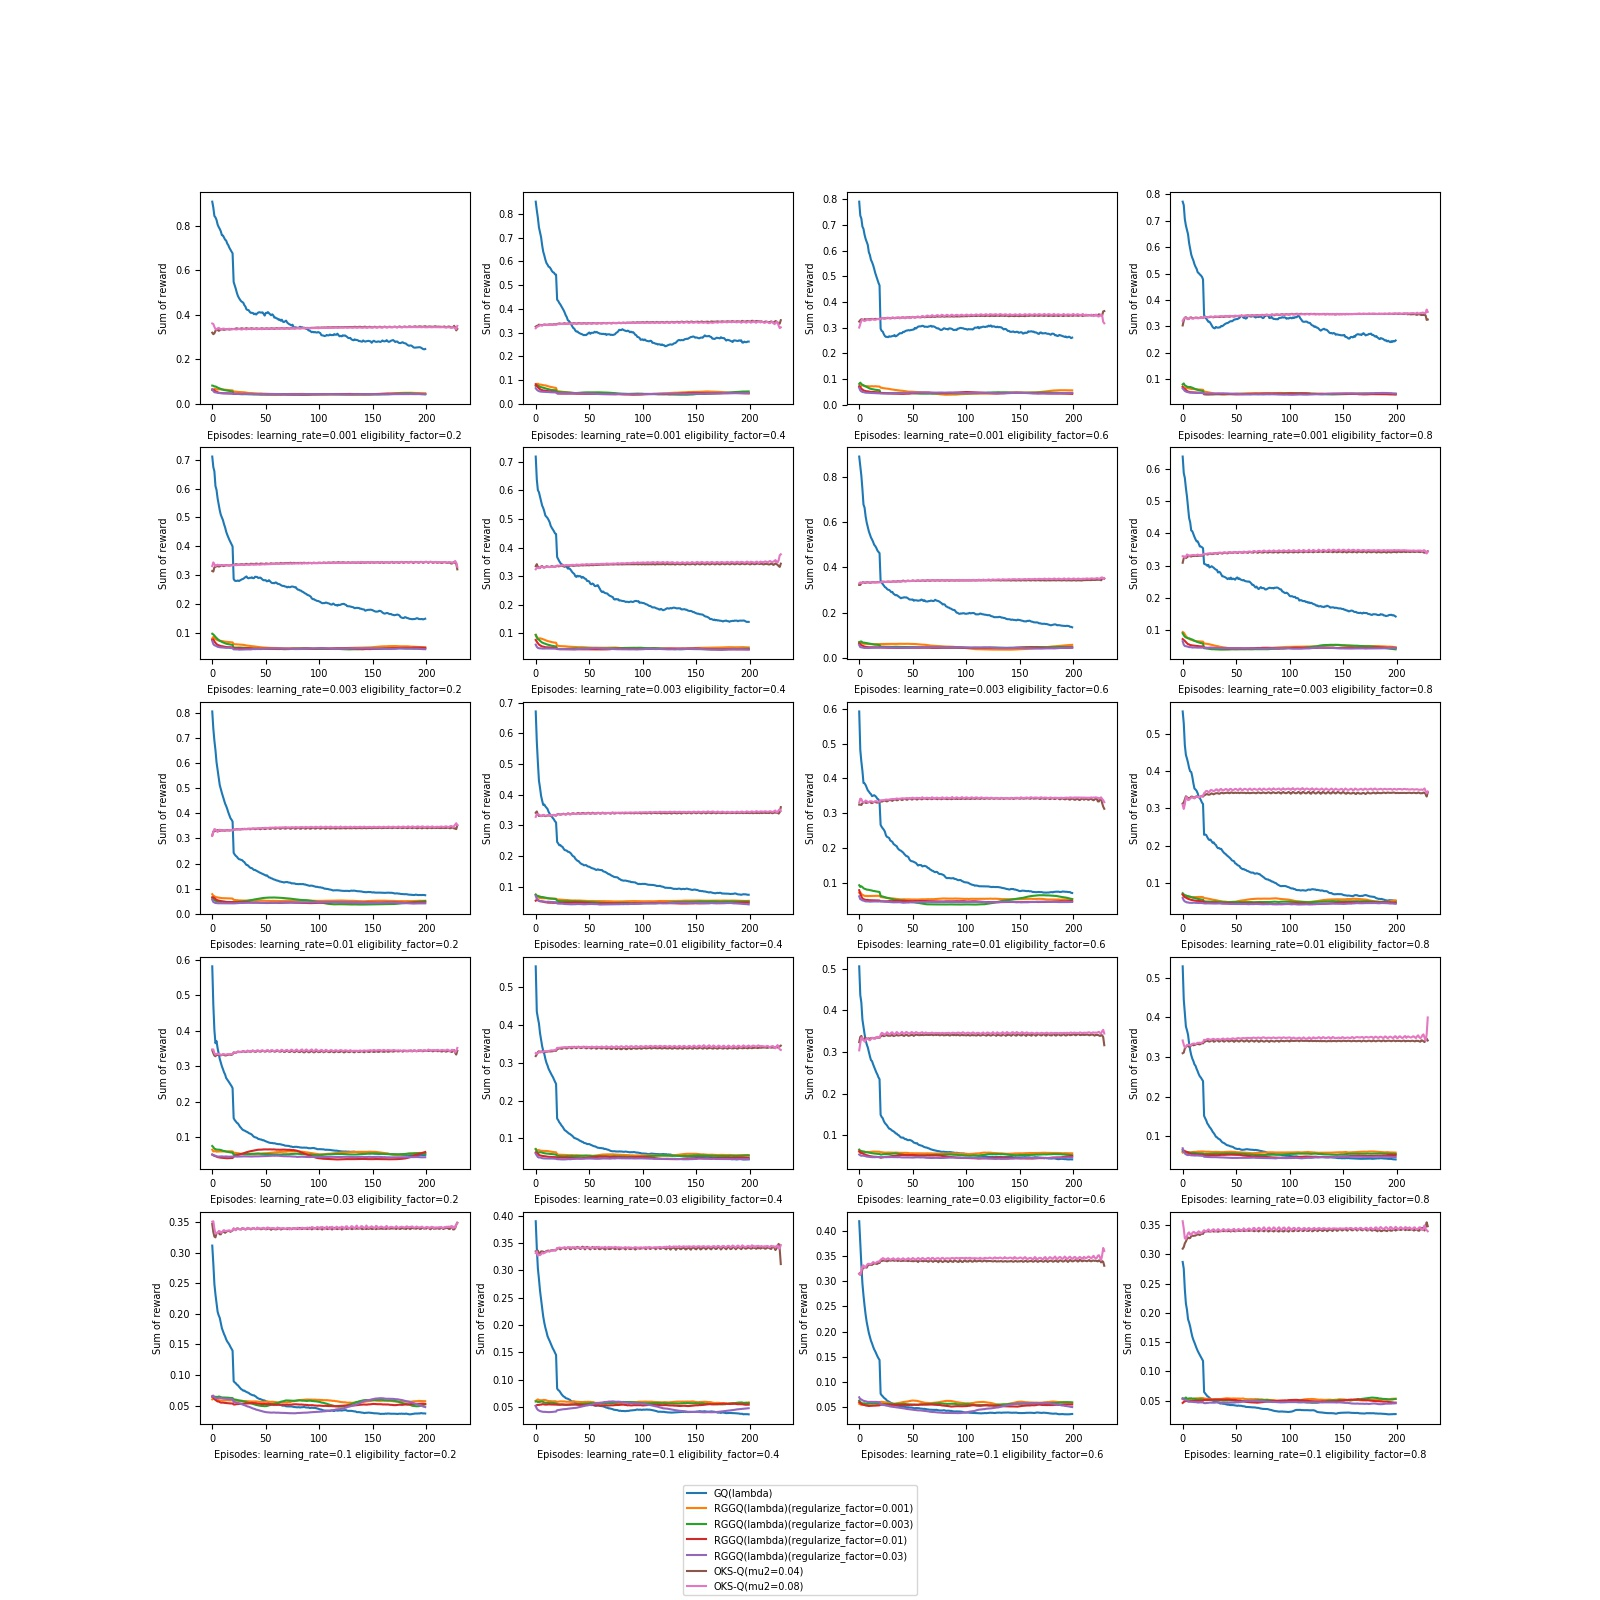
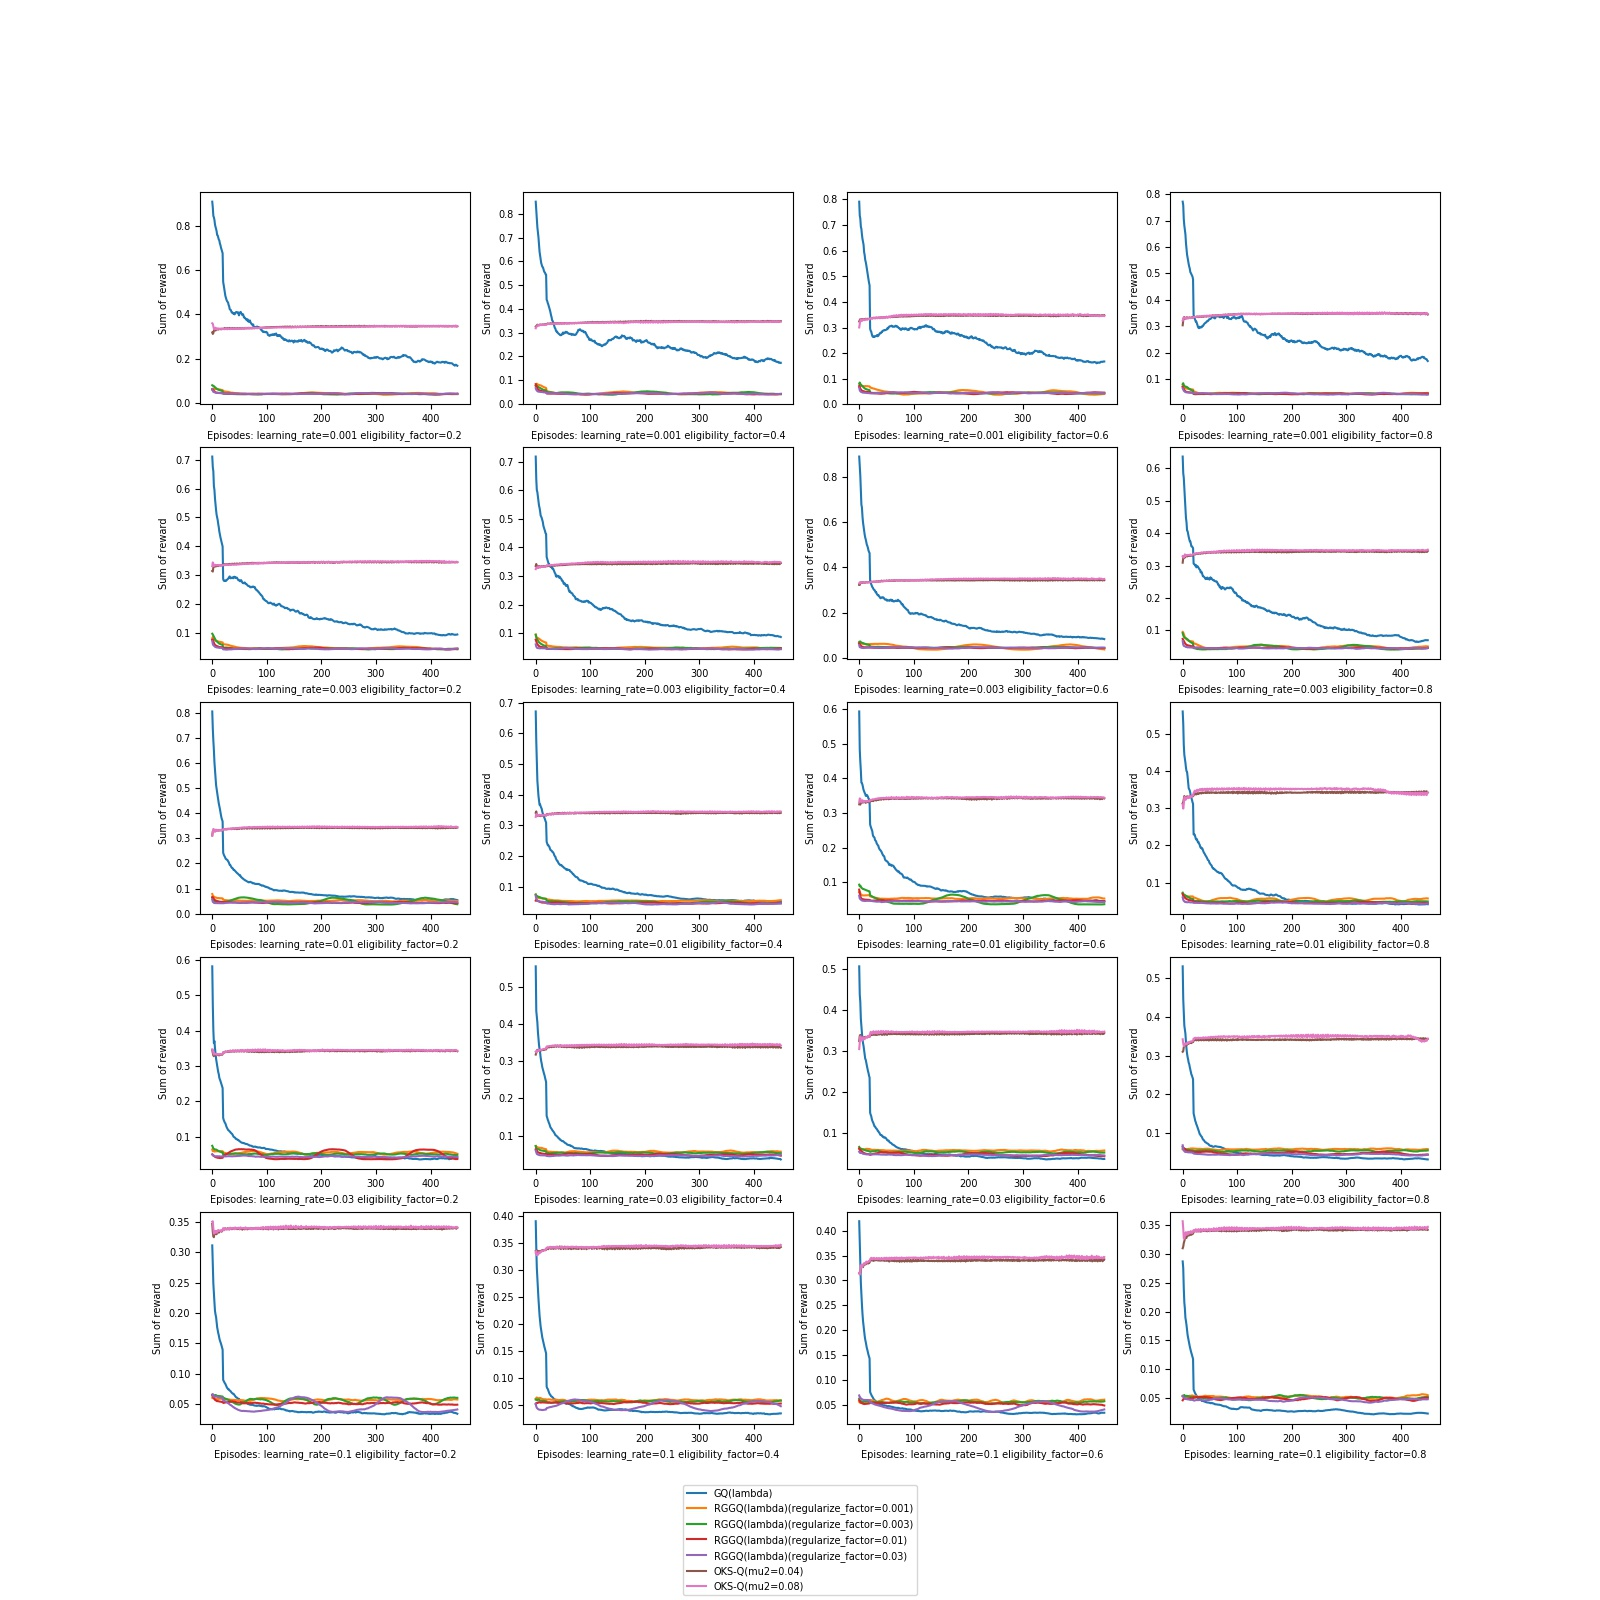
algorithm modify

diff --git a/Project/data/MountainCar/data_analysis.py b/Project/data/MountainCar/data_analysis.py
@@ -16,11 +16,11 @@ def save_img(data):
             ax.set_xlabel("Episodes: learning_rate=" + str(learning_rate) + " eligibility_factor=" + str(eligibility_factor))
             ax.set_ylabel('Sum of reward')
 
-            line_1, = plt.plot(data["total_reward"]["GGQ"][learning_rate][eligibility_factor][:200])
-            line_2, = plt.plot(data["total_reward"]["RGGQ"][learning_rate][eligibility_factor][0.001][:200])
-            line_3, = plt.plot(data["total_reward"]["RGGQ"][learning_rate][eligibility_factor][0.003][:200])
-            line_4, = plt.plot(data["total_reward"]["RGGQ"][learning_rate][eligibility_factor][0.01][:200])
-            line_5, = plt.plot(data["total_reward"]["RGGQ"][learning_rate][eligibility_factor][0.03][:200])
+            line_1, = plt.plot(data["total_reward"]["GGQ"][learning_rate][eligibility_factor][:450])
+            line_2, = plt.plot(data["total_reward"]["RGGQ"][learning_rate][eligibility_factor][0.001][:450])
+            line_3, = plt.plot(data["total_reward"]["RGGQ"][learning_rate][eligibility_factor][0.003][:450])
+            line_4, = plt.plot(data["total_reward"]["RGGQ"][learning_rate][eligibility_factor][0.01][:450])
+            line_5, = plt.plot(data["total_reward"]["RGGQ"][learning_rate][eligibility_factor][0.03][:450])
             # line_6, = plt.plot(data["total_reward"]["OSKQ"][learning_rate][eligibility_factor][0.04])
             # line_7, = plt.plot(data["total_reward"]["OSKQ"][learning_rate][eligibility_factor][0.08])
     fig.legend(
@@ -50,13 +50,13 @@ def save_img(data):
             ax.set_xlabel("Episodes: learning_rate=" + str(learning_rate) + " eligibility_factor=" + str(eligibility_factor))
             ax.set_ylabel('Sum of reward')
 
-            line_1, = plt.plot(data["time_history"]["GGQ"][learning_rate][eligibility_factor][:200])
-            line_2, = plt.plot(data["time_history"]["RGGQ"][learning_rate][eligibility_factor][0.001][:200])
-            line_3, = plt.plot(data["time_history"]["RGGQ"][learning_rate][eligibility_factor][0.003][:200])
-            line_4, = plt.plot(data["time_history"]["RGGQ"][learning_rate][eligibility_factor][0.01][:200])
-            line_5, = plt.plot(data["time_history"]["RGGQ"][learning_rate][eligibility_factor][0.03][:200])
-            line_6, = plt.plot(data["time_history"]["OSKQ"][learning_rate][eligibility_factor][0.04])
-            line_7, = plt.plot(data["time_history"]["OSKQ"][learning_rate][eligibility_factor][0.08])
+            line_1, = plt.plot(data["time_history"]["GGQ"][learning_rate][eligibility_factor][:450])
+            line_2, = plt.plot(data["time_history"]["RGGQ"][learning_rate][eligibility_factor][0.001][:450])
+            line_3, = plt.plot(data["time_history"]["RGGQ"][learning_rate][eligibility_factor][0.003][:450])
+            line_4, = plt.plot(data["time_history"]["RGGQ"][learning_rate][eligibility_factor][0.01][:450])
+            line_5, = plt.plot(data["time_history"]["RGGQ"][learning_rate][eligibility_factor][0.03][:450])
+            line_6, = plt.plot(data["time_history"]["OSKQ"][learning_rate][eligibility_factor][0.04][:450])
+            line_7, = plt.plot(data["time_history"]["OSKQ"][learning_rate][eligibility_factor][0.08][:450])
 
     fig.legend(
         (line_1, line_2, line_3, line_4, line_5, line_6, line_7),
@@ -98,7 +98,7 @@ def main():
                                     data_type + "_" + algo + "-" + str(learning_rate) + "-" + str(eligibility_factor) + "-" + str(mu_2),
                                     'rb'
                             ) as f:
-                                data[data_type][algo][learning_rate][eligibility_factor][mu_2] = pickle.load(f)[:230]
+                                data[data_type][algo][learning_rate][eligibility_factor][mu_2] = pickle.load(f)
 
                     if "RGGQ" == algo:
                         for regularize_factor in [0.001, 0.003, 0.01, 0.03]:
@@ -106,15 +106,16 @@ def main():
                                     data_type + "_" + algo + "-" + str(learning_rate) + "-" + str(eligibility_factor) + "-" + str(regularize_factor),
                                     'rb'
                             ) as f:
-                                data[data_type][algo][learning_rate][eligibility_factor][regularize_factor] = pickle.load(f)[:230]
+                                data[data_type][algo][learning_rate][eligibility_factor][regularize_factor] = pickle.load(f)
 
                     if "GGQ" == algo:
                         with open(
                                 data_type + "_" + algo + "-" + str(learning_rate) + "-" + str(eligibility_factor),
                                 'rb'
                         ) as f:
-                            data[data_type][algo][learning_rate][eligibility_factor] = pickle.load(f)[:230]
-
+                            data[data_type][algo][learning_rate][eligibility_factor] = pickle.load(f)
+    import pdb
+    pdb.set_trace()
     data = data_average(data, ave_step=20)
     save_img(data)
 

diff --git a/Project/MountainCar_MultiProcess copy.py b/Project/MountainCar_MultiProcess copy.py
@@ -34,7 +34,7 @@ def GGQLambda_MultiProcess_Ave(mu_2=0.08,
     precise = [8, 8]
 
     discount_factor = 0.9
-    discount_of_learning_rate = 1
+    discount_of_learning_rate = 0.999
     epsilon = 0.1
 
     # Macro
@@ -57,7 +57,6 @@ def GGQLambda_MultiProcess_Ave(mu_2=0.08,
         MountainCar_universal_action_space
     )
 
-    # Run algorithm
     for ave_times in range(AVE_TIMES):
         learning_agent_GGQLambda = GGQLambda(
             learning_rate,
@@ -68,7 +67,7 @@ def GGQLambda_MultiProcess_Ave(mu_2=0.08,
             state_action_space.action_space
         )
         learning_agent = learning_agent_GGQLambda
-
+        # Run algorithm
         Qfunc_error_history = []
         total_reward_episode = []
         time_history = []
@@ -207,7 +206,7 @@ def RGGQLambda_MultiProcess_Ave(mu_2=0.08,
     precise = [8, 8]
 
     discount_factor = 0.9
-    discount_of_learning_rate = 1
+    discount_of_learning_rate = 0.999
     epsilon = 0.1
 
     # Macro
@@ -300,7 +299,7 @@ def RGGQLambda_MultiProcess_Ave(mu_2=0.08,
                                         phi_bar,
                                         step_reward,
                                         rho,
-                                        1
+                                        0.5
                                         )
 
                 observation = observation_bar
@@ -313,10 +312,6 @@ def RGGQLambda_MultiProcess_Ave(mu_2=0.08,
                         learning_agent.epsilon *= 0.999
                     print "Episode finished after {} timesteps in RGGQ(lambda)".format(t + 1), "in ", ave_times + 1, "times"
                     break
-            time_end = time.clock()
-            time_consumed = time_end - time_start
-            time_history_2.append(time_consumed)
-
             if total_reward > max_reward:
                 max_reward = total_reward
 
@@ -330,6 +325,10 @@ def RGGQLambda_MultiProcess_Ave(mu_2=0.08,
             Qfunc_error_history_2.append(     # Add error to error history
                 Qfunc_difference_this_episode
             )
+
+            time_end = time.clock()
+            time_consumed = time_end - time_start
+            time_history_2.append(time_consumed)
 
             sparsity.append(np.sum(learning_agent.theta == 0) / (learning_agent.num_element_qfunc * 1.0))
 
@@ -387,7 +386,8 @@ def OSK_Q_MultiProcess_Ave(mu_2=0.08,
     precise = [8, 8]
 
     discount_factor = 0.9
-    discount_of_learning_rate = 1
+    discount_of_learning_rate = 0.999
+    regularize_factor = 0.0001  # 0.0001
     epsilon = 0.1
 
     # Parameter OSK-Q
@@ -429,8 +429,8 @@ def OSK_Q_MultiProcess_Ave(mu_2=0.08,
 
         Qfunc_error_history_3 = []
         total_reward_episode_3 = []
-        time_history_3 = []
         max_reward = -float("inf")
+        time_history_3 = []
         for i_episode in range(NUM_EPISODE):
             time_start = time.clock()
             observation = env.reset()

diff --git a/Project/data/CartPole/data_analysis.py b/Project/data/CartPole/data_analysis.py
@@ -66,7 +66,7 @@ def main():
     data = {}
     for data_type in ["time_history", "total_reward"]:
         data[data_type] = {}
-        for algo in ["GGQ"]:  # only for gq
+        for algo in ["GGQ", "RGGQ"]:  # only for gq
                 # for algo in ["GGQ", "RGGQ", "OSKQ"]:
             data[data_type][algo] = {}
             for learning_rate in [0.001, 0.003, 0.01, 0.03, 0.1]:
@@ -96,7 +96,7 @@ def main():
                         ) as f:
                             data[data_type][algo][learning_rate][eligibility_factor] = pickle.load(f)[:200]
 
-    save_img(data)
+    # save_img(data)
 
 
 if __name__ == '__main__':
